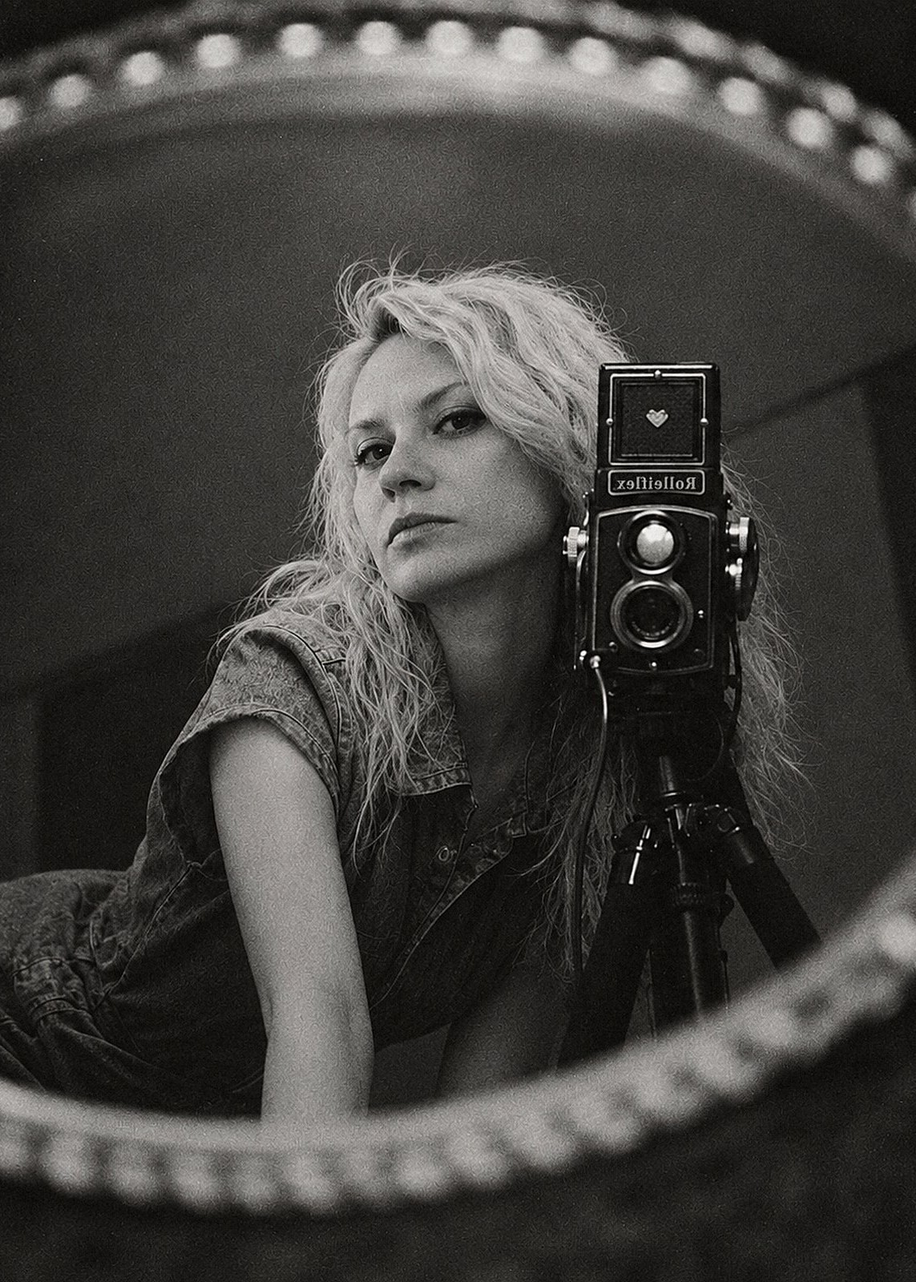
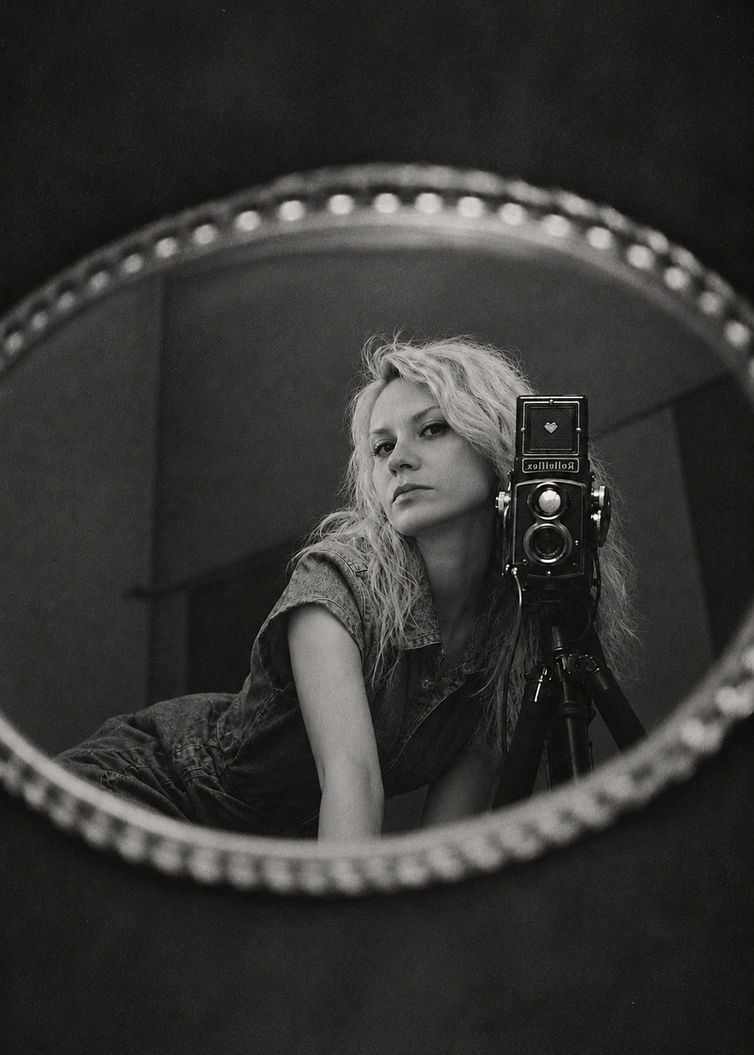
About: new photo version, 5x7

diff --git a/site/kz/index.html b/site/kz/index.html
@@ -42,7 +42,7 @@ var t=document.querySelector('meta[name="theme-color"]');if(t)t.content=p[1]}();
 <link rel="preconnect" href="https://fonts.googleapis.com">
 <link rel="preconnect" href="https://fonts.gstatic.com" crossorigin>
 <link href="https://fonts.googleapis.com/css2?family=Inter:wght@400;500;600;700;800&family=Unbounded:wght@900&display=swap" rel="stylesheet">
-<link rel="stylesheet" href="../assets/style.css?v=1794993606">
+<link rel="stylesheet" href="../assets/style.css?v=1794993721">
 </head>
 <body id="top" class="is-home">
 <header class="top">
@@ -61,9 +61,9 @@ var t=document.querySelector('meta[name="theme-color"]');if(t)t.content=p[1]}();
 
 <div class="home" id="home">
 <section class="stage">
-  <div class="splash"><picture class="tile"><source media="(max-width: 760px)" srcset="../photos/home/02.jpg?v=1794993606"><img src="../photos/home/01.jpg?v=1794993606" alt="Veronika Kim"></picture></div>
-  <h1 class="wordmark"><picture><source media="(max-width: 760px)" data-srcset="../assets/wordmark-v1.png?v=1794993606" width="678" height="1692"><img data-src="../assets/wordmark-1.png?v=1794993606" alt="Veronika Kim" width="1692" height="678"></picture><script>!function(p){var n=document.documentElement.getAttribute("data-logo")||1,s=p.firstChild,i=p.lastChild;s.srcset=s.getAttribute("data-srcset").replace("-v1.","-v"+n+".");i.src=i.getAttribute("data-src").replace("-1.","-"+n+".")}(document.currentScript.previousElementSibling)</script><noscript><img src="../assets/wordmark-1.png?v=1794993606" alt="Veronika Kim" width="1692" height="678"></noscript></h1>
-  <div class="drift"><div class="drift-item"><a class="stub"><img src="../photos/float/1.jpg?v=1794993606" width="800" height="1200" alt="Veronika Kim" decoding="async"></a></div><div class="drift-item"><a class="stub"><img src="../photos/float/2.jpg?v=1794993606" width="1200" height="800" alt="Veronika Kim" decoding="async"></a></div><div class="drift-item"><a class="stub"><img src="../photos/float/3.jpg?v=1794993606" width="857" height="1200" alt="Veronika Kim" decoding="async"></a></div><div class="drift-item"><a class="stub"><img src="../photos/float/4.jpg?v=1794993606" width="870" height="1200" alt="Veronika Kim" decoding="async"></a></div><div class="drift-item"><a class="stub"><img src="../photos/float/5.jpg?v=1794993606" width="1150" height="1200" alt="Veronika Kim" decoding="async"></a></div><div class="drift-item"><a class="stub"><img src="../photos/float/6.jpg?v=1794993606" width="800" height="1200" alt="Veronika Kim" decoding="async"></a></div><div class="drift-item"><a class="stub"><img src="../photos/float/7.jpg?v=1794993606" width="1200" height="866" alt="Veronika Kim" decoding="async"></a></div><div class="drift-item"><a class="stub"><img src="../photos/float/8.jpg?v=1794993606" width="1200" height="800" alt="Veronika Kim" decoding="async"></a></div></div>
+  <div class="splash"><picture class="tile"><source media="(max-width: 760px)" srcset="../photos/home/02.jpg?v=1794993721"><img src="../photos/home/01.jpg?v=1794993721" alt="Veronika Kim"></picture></div>
+  <h1 class="wordmark"><picture><source media="(max-width: 760px)" data-srcset="../assets/wordmark-v1.png?v=1794993721" width="678" height="1692"><img data-src="../assets/wordmark-1.png?v=1794993721" alt="Veronika Kim" width="1692" height="678"></picture><script>!function(p){var n=document.documentElement.getAttribute("data-logo")||1,s=p.firstChild,i=p.lastChild;s.srcset=s.getAttribute("data-srcset").replace("-v1.","-v"+n+".");i.src=i.getAttribute("data-src").replace("-1.","-"+n+".")}(document.currentScript.previousElementSibling)</script><noscript><img src="../assets/wordmark-1.png?v=1794993721" alt="Veronika Kim" width="1692" height="678"></noscript></h1>
+  <div class="drift"><div class="drift-item"><a class="stub"><img src="../photos/float/1.jpg?v=1794993721" width="800" height="1200" alt="Veronika Kim" decoding="async"></a></div><div class="drift-item"><a class="stub"><img src="../photos/float/2.jpg?v=1794993721" width="1200" height="800" alt="Veronika Kim" decoding="async"></a></div><div class="drift-item"><a class="stub"><img src="../photos/float/3.jpg?v=1794993721" width="857" height="1200" alt="Veronika Kim" decoding="async"></a></div><div class="drift-item"><a class="stub"><img src="../photos/float/4.jpg?v=1794993721" width="870" height="1200" alt="Veronika Kim" decoding="async"></a></div><div class="drift-item"><a class="stub"><img src="../photos/float/5.jpg?v=1794993721" width="1150" height="1200" alt="Veronika Kim" decoding="async"></a></div><div class="drift-item"><a class="stub"><img src="../photos/float/6.jpg?v=1794993721" width="800" height="1200" alt="Veronika Kim" decoding="async"></a></div><div class="drift-item"><a class="stub"><img src="../photos/float/7.jpg?v=1794993721" width="1200" height="866" alt="Veronika Kim" decoding="async"></a></div><div class="drift-item"><a class="stub"><img src="../photos/float/8.jpg?v=1794993721" width="1200" height="800" alt="Veronika Kim" decoding="async"></a></div></div>
 </section>
 <div class="home-content">
 <p class="statement">Маған мінсіз адамдар керек емес. <em>Маған тірі адамдар қызық.</em></p>
@@ -90,6 +90,6 @@ var t=document.querySelector('meta[name="theme-color"]');if(t)t.content=p[1]}();
   <div class="foot-bottom"><span>© 2026 Veronika Kim. Барлық құқықтар қорғалған</span><a href="#top">Жоғарыға</a></div>
 </footer>
 <div class="lb" role="dialog" aria-modal="true"><span class="c"></span><button class="x">Жабу</button><button class="p">← Артқа</button><img alt=""><button class="nx">Алға →</button></div>
-<script src="../assets/app.js?v=1794993606"></script>
+<script src="../assets/app.js?v=1794993721"></script>
 </body>
 </html>

diff --git a/site/en/index.html b/site/en/index.html
@@ -42,7 +42,7 @@ var t=document.querySelector('meta[name="theme-color"]');if(t)t.content=p[1]}();
 <link rel="preconnect" href="https://fonts.googleapis.com">
 <link rel="preconnect" href="https://fonts.gstatic.com" crossorigin>
 <link href="https://fonts.googleapis.com/css2?family=Inter:wght@400;500;600;700;800&family=Unbounded:wght@900&display=swap" rel="stylesheet">
-<link rel="stylesheet" href="../assets/style.css?v=1794993606">
+<link rel="stylesheet" href="../assets/style.css?v=1794993721">
 </head>
 <body id="top" class="is-home">
 <header class="top">
@@ -61,9 +61,9 @@ var t=document.querySelector('meta[name="theme-color"]');if(t)t.content=p[1]}();
 
 <div class="home" id="home">
 <section class="stage">
-  <div class="splash"><picture class="tile"><source media="(max-width: 760px)" srcset="../photos/home/02.jpg?v=1794993606"><img src="../photos/home/01.jpg?v=1794993606" alt="Veronika Kim"></picture></div>
-  <h1 class="wordmark"><picture><source media="(max-width: 760px)" data-srcset="../assets/wordmark-v1.png?v=1794993606" width="678" height="1692"><img data-src="../assets/wordmark-1.png?v=1794993606" alt="Veronika Kim" width="1692" height="678"></picture><script>!function(p){var n=document.documentElement.getAttribute("data-logo")||1,s=p.firstChild,i=p.lastChild;s.srcset=s.getAttribute("data-srcset").replace("-v1.","-v"+n+".");i.src=i.getAttribute("data-src").replace("-1.","-"+n+".")}(document.currentScript.previousElementSibling)</script><noscript><img src="../assets/wordmark-1.png?v=1794993606" alt="Veronika Kim" width="1692" height="678"></noscript></h1>
-  <div class="drift"><div class="drift-item"><a class="stub"><img src="../photos/float/1.jpg?v=1794993606" width="800" height="1200" alt="Veronika Kim" decoding="async"></a></div><div class="drift-item"><a class="stub"><img src="../photos/float/2.jpg?v=1794993606" width="1200" height="800" alt="Veronika Kim" decoding="async"></a></div><div class="drift-item"><a class="stub"><img src="../photos/float/3.jpg?v=1794993606" width="857" height="1200" alt="Veronika Kim" decoding="async"></a></div><div class="drift-item"><a class="stub"><img src="../photos/float/4.jpg?v=1794993606" width="870" height="1200" alt="Veronika Kim" decoding="async"></a></div><div class="drift-item"><a class="stub"><img src="../photos/float/5.jpg?v=1794993606" width="1150" height="1200" alt="Veronika Kim" decoding="async"></a></div><div class="drift-item"><a class="stub"><img src="../photos/float/6.jpg?v=1794993606" width="800" height="1200" alt="Veronika Kim" decoding="async"></a></div><div class="drift-item"><a class="stub"><img src="../photos/float/7.jpg?v=1794993606" width="1200" height="866" alt="Veronika Kim" decoding="async"></a></div><div class="drift-item"><a class="stub"><img src="../photos/float/8.jpg?v=1794993606" width="1200" height="800" alt="Veronika Kim" decoding="async"></a></div></div>
+  <div class="splash"><picture class="tile"><source media="(max-width: 760px)" srcset="../photos/home/02.jpg?v=1794993721"><img src="../photos/home/01.jpg?v=1794993721" alt="Veronika Kim"></picture></div>
+  <h1 class="wordmark"><picture><source media="(max-width: 760px)" data-srcset="../assets/wordmark-v1.png?v=1794993721" width="678" height="1692"><img data-src="../assets/wordmark-1.png?v=1794993721" alt="Veronika Kim" width="1692" height="678"></picture><script>!function(p){var n=document.documentElement.getAttribute("data-logo")||1,s=p.firstChild,i=p.lastChild;s.srcset=s.getAttribute("data-srcset").replace("-v1.","-v"+n+".");i.src=i.getAttribute("data-src").replace("-1.","-"+n+".")}(document.currentScript.previousElementSibling)</script><noscript><img src="../assets/wordmark-1.png?v=1794993721" alt="Veronika Kim" width="1692" height="678"></noscript></h1>
+  <div class="drift"><div class="drift-item"><a class="stub"><img src="../photos/float/1.jpg?v=1794993721" width="800" height="1200" alt="Veronika Kim" decoding="async"></a></div><div class="drift-item"><a class="stub"><img src="../photos/float/2.jpg?v=1794993721" width="1200" height="800" alt="Veronika Kim" decoding="async"></a></div><div class="drift-item"><a class="stub"><img src="../photos/float/3.jpg?v=1794993721" width="857" height="1200" alt="Veronika Kim" decoding="async"></a></div><div class="drift-item"><a class="stub"><img src="../photos/float/4.jpg?v=1794993721" width="870" height="1200" alt="Veronika Kim" decoding="async"></a></div><div class="drift-item"><a class="stub"><img src="../photos/float/5.jpg?v=1794993721" width="1150" height="1200" alt="Veronika Kim" decoding="async"></a></div><div class="drift-item"><a class="stub"><img src="../photos/float/6.jpg?v=1794993721" width="800" height="1200" alt="Veronika Kim" decoding="async"></a></div><div class="drift-item"><a class="stub"><img src="../photos/float/7.jpg?v=1794993721" width="1200" height="866" alt="Veronika Kim" decoding="async"></a></div><div class="drift-item"><a class="stub"><img src="../photos/float/8.jpg?v=1794993721" width="1200" height="800" alt="Veronika Kim" decoding="async"></a></div></div>
 </section>
 <div class="home-content">
 <p class="statement">I don't need perfect people. <em>I'm interested in real ones.</em></p>
@@ -90,6 +90,6 @@ var t=document.querySelector('meta[name="theme-color"]');if(t)t.content=p[1]}();
   <div class="foot-bottom"><span>© 2026 Veronika Kim. All rights reserved</span><a href="#top">Back to top</a></div>
 </footer>
 <div class="lb" role="dialog" aria-modal="true"><span class="c"></span><button class="x">Close</button><button class="p">← Prev</button><img alt=""><button class="nx">Next →</button></div>
-<script src="../assets/app.js?v=1794993606"></script>
+<script src="../assets/app.js?v=1794993721"></script>
 </body>
 </html>

diff --git a/site/index.html b/site/index.html
@@ -42,7 +42,7 @@ var t=document.querySelector('meta[name="theme-color"]');if(t)t.content=p[1]}();
 <link rel="preconnect" href="https://fonts.googleapis.com">
 <link rel="preconnect" href="https://fonts.gstatic.com" crossorigin>
 <link href="https://fonts.googleapis.com/css2?family=Inter:wght@400;500;600;700;800&family=Unbounded:wght@900&display=swap" rel="stylesheet">
-<link rel="stylesheet" href="assets/style.css?v=1794993606">
+<link rel="stylesheet" href="assets/style.css?v=1794993721">
 </head>
 <body id="top" class="is-home">
 <header class="top">
@@ -61,9 +61,9 @@ var t=document.querySelector('meta[name="theme-color"]');if(t)t.content=p[1]}();
 
 <div class="home" id="home">
 <section class="stage">
-  <div class="splash"><picture class="tile"><source media="(max-width: 760px)" srcset="photos/home/02.jpg?v=1794993606"><img src="photos/home/01.jpg?v=1794993606" alt="Veronika Kim"></picture></div>
-  <h1 class="wordmark"><picture><source media="(max-width: 760px)" data-srcset="assets/wordmark-v1.png?v=1794993606" width="678" height="1692"><img data-src="assets/wordmark-1.png?v=1794993606" alt="Veronika Kim" width="1692" height="678"></picture><script>!function(p){var n=document.documentElement.getAttribute("data-logo")||1,s=p.firstChild,i=p.lastChild;s.srcset=s.getAttribute("data-srcset").replace("-v1.","-v"+n+".");i.src=i.getAttribute("data-src").replace("-1.","-"+n+".")}(document.currentScript.previousElementSibling)</script><noscript><img src="assets/wordmark-1.png?v=1794993606" alt="Veronika Kim" width="1692" height="678"></noscript></h1>
-  <div class="drift"><div class="drift-item"><a class="stub"><img src="photos/float/1.jpg?v=1794993606" width="800" height="1200" alt="Veronika Kim" decoding="async"></a></div><div class="drift-item"><a class="stub"><img src="photos/float/2.jpg?v=1794993606" width="1200" height="800" alt="Veronika Kim" decoding="async"></a></div><div class="drift-item"><a class="stub"><img src="photos/float/3.jpg?v=1794993606" width="857" height="1200" alt="Veronika Kim" decoding="async"></a></div><div class="drift-item"><a class="stub"><img src="photos/float/4.jpg?v=1794993606" width="870" height="1200" alt="Veronika Kim" decoding="async"></a></div><div class="drift-item"><a class="stub"><img src="photos/float/5.jpg?v=1794993606" width="1150" height="1200" alt="Veronika Kim" decoding="async"></a></div><div class="drift-item"><a class="stub"><img src="photos/float/6.jpg?v=1794993606" width="800" height="1200" alt="Veronika Kim" decoding="async"></a></div><div class="drift-item"><a class="stub"><img src="photos/float/7.jpg?v=1794993606" width="1200" height="866" alt="Veronika Kim" decoding="async"></a></div><div class="drift-item"><a class="stub"><img src="photos/float/8.jpg?v=1794993606" width="1200" height="800" alt="Veronika Kim" decoding="async"></a></div></div>
+  <div class="splash"><picture class="tile"><source media="(max-width: 760px)" srcset="photos/home/02.jpg?v=1794993721"><img src="photos/home/01.jpg?v=1794993721" alt="Veronika Kim"></picture></div>
+  <h1 class="wordmark"><picture><source media="(max-width: 760px)" data-srcset="assets/wordmark-v1.png?v=1794993721" width="678" height="1692"><img data-src="assets/wordmark-1.png?v=1794993721" alt="Veronika Kim" width="1692" height="678"></picture><script>!function(p){var n=document.documentElement.getAttribute("data-logo")||1,s=p.firstChild,i=p.lastChild;s.srcset=s.getAttribute("data-srcset").replace("-v1.","-v"+n+".");i.src=i.getAttribute("data-src").replace("-1.","-"+n+".")}(document.currentScript.previousElementSibling)</script><noscript><img src="assets/wordmark-1.png?v=1794993721" alt="Veronika Kim" width="1692" height="678"></noscript></h1>
+  <div class="drift"><div class="drift-item"><a class="stub"><img src="photos/float/1.jpg?v=1794993721" width="800" height="1200" alt="Veronika Kim" decoding="async"></a></div><div class="drift-item"><a class="stub"><img src="photos/float/2.jpg?v=1794993721" width="1200" height="800" alt="Veronika Kim" decoding="async"></a></div><div class="drift-item"><a class="stub"><img src="photos/float/3.jpg?v=1794993721" width="857" height="1200" alt="Veronika Kim" decoding="async"></a></div><div class="drift-item"><a class="stub"><img src="photos/float/4.jpg?v=1794993721" width="870" height="1200" alt="Veronika Kim" decoding="async"></a></div><div class="drift-item"><a class="stub"><img src="photos/float/5.jpg?v=1794993721" width="1150" height="1200" alt="Veronika Kim" decoding="async"></a></div><div class="drift-item"><a class="stub"><img src="photos/float/6.jpg?v=1794993721" width="800" height="1200" alt="Veronika Kim" decoding="async"></a></div><div class="drift-item"><a class="stub"><img src="photos/float/7.jpg?v=1794993721" width="1200" height="866" alt="Veronika Kim" decoding="async"></a></div><div class="drift-item"><a class="stub"><img src="photos/float/8.jpg?v=1794993721" width="1200" height="800" alt="Veronika Kim" decoding="async"></a></div></div>
 </section>
 <div class="home-content">
 <p class="statement">Мне не нужны идеальные люди. <em>Мне интересны живые.</em></p>
@@ -90,6 +90,6 @@ var t=document.querySelector('meta[name="theme-color"]');if(t)t.content=p[1]}();
   <div class="foot-bottom"><span>© 2026 Veronika Kim. Все права защищены</span><a href="#top">Наверх</a></div>
 </footer>
 <div class="lb" role="dialog" aria-modal="true"><span class="c"></span><button class="x">Закрыть</button><button class="p">← Назад</button><img alt=""><button class="nx">Вперёд →</button></div>
-<script src="assets/app.js?v=1794993606"></script>
+<script src="assets/app.js?v=1794993721"></script>
 </body>
 </html>

diff --git a/site/kz/art/editorial/index.html b/site/kz/art/editorial/index.html
@@ -42,7 +42,7 @@ var t=document.querySelector('meta[name="theme-color"]');if(t)t.content=p[1]}();
 <link rel="preconnect" href="https://fonts.googleapis.com">
 <link rel="preconnect" href="https://fonts.gstatic.com" crossorigin>
 <link href="https://fonts.googleapis.com/css2?family=Inter:wght@400;500;600;700;800&family=Unbounded:wght@900&display=swap" rel="stylesheet">
-<link rel="stylesheet" href="../../../assets/style.css?v=1794993606">
+<link rel="stylesheet" href="../../../assets/style.css?v=1794993721">
 </head>
 <body id="top">
 <header class="top">
@@ -70,6 +70,6 @@ var t=document.querySelector('meta[name="theme-color"]');if(t)t.content=p[1]}();
   <div class="foot-bottom"><span>© 2026 Veronika Kim. Барлық құқықтар қорғалған</span><a href="#top">Жоғарыға</a></div>
 </footer>
 <div class="lb" role="dialog" aria-modal="true"><span class="c"></span><button class="x">Жабу</button><button class="p">← Артқа</button><img alt=""><button class="nx">Алға →</button></div>
-<script src="../../../assets/app.js?v=1794993606"></script>
+<script src="../../../assets/app.js?v=1794993721"></script>
 </body>
 </html>

diff --git a/site/kz/art/film-darkroom/index.html b/site/kz/art/film-darkroom/index.html
@@ -42,7 +42,7 @@ var t=document.querySelector('meta[name="theme-color"]');if(t)t.content=p[1]}();
 <link rel="preconnect" href="https://fonts.googleapis.com">
 <link rel="preconnect" href="https://fonts.gstatic.com" crossorigin>
 <link href="https://fonts.googleapis.com/css2?family=Inter:wght@400;500;600;700;800&family=Unbounded:wght@900&display=swap" rel="stylesheet">
-<link rel="stylesheet" href="../../../assets/style.css?v=1794993606">
+<link rel="stylesheet" href="../../../assets/style.css?v=1794993721">
 </head>
 <body id="top">
 <header class="top">
@@ -70,6 +70,6 @@ var t=document.querySelector('meta[name="theme-color"]');if(t)t.content=p[1]}();
   <div class="foot-bottom"><span>© 2026 Veronika Kim. Барлық құқықтар қорғалған</span><a href="#top">Жоғарыға</a></div>
 </footer>
 <div class="lb" role="dialog" aria-modal="true"><span class="c"></span><button class="x">Жабу</button><button class="p">← Артқа</button><img alt=""><button class="nx">Алға →</button></div>
-<script src="../../../assets/app.js?v=1794993606"></script>
+<script src="../../../assets/app.js?v=1794993721"></script>
 </body>
 </html>

diff --git a/site/kz/art/thirst-for-life/index.html b/site/kz/art/thirst-for-life/index.html
@@ -42,7 +42,7 @@ var t=document.querySelector('meta[name="theme-color"]');if(t)t.content=p[1]}();
 <link rel="preconnect" href="https://fonts.googleapis.com">
 <link rel="preconnect" href="https://fonts.gstatic.com" crossorigin>
 <link href="https://fonts.googleapis.com/css2?family=Inter:wght@400;500;600;700;800&family=Unbounded:wght@900&display=swap" rel="stylesheet">
-<link rel="stylesheet" href="../../../assets/style.css?v=1794993606">
+<link rel="stylesheet" href="../../../assets/style.css?v=1794993721">
 </head>
 <body id="top">
 <header class="top">
@@ -70,6 +70,6 @@ var t=document.querySelector('meta[name="theme-color"]');if(t)t.content=p[1]}();
   <div class="foot-bottom"><span>© 2026 Veronika Kim. Барлық құқықтар қорғалған</span><a href="#top">Жоғарыға</a></div>
 </footer>
 <div class="lb" role="dialog" aria-modal="true"><span class="c"></span><button class="x">Жабу</button><button class="p">← Артқа</button><img alt=""><button class="nx">Алға →</button></div>
-<script src="../../../assets/app.js?v=1794993606"></script>
+<script src="../../../assets/app.js?v=1794993721"></script>
 </body>
 </html>

diff --git a/site/kz/art/travel/index.html b/site/kz/art/travel/index.html
@@ -42,7 +42,7 @@ var t=document.querySelector('meta[name="theme-color"]');if(t)t.content=p[1]}();
 <link rel="preconnect" href="https://fonts.googleapis.com">
 <link rel="preconnect" href="https://fonts.gstatic.com" crossorigin>
 <link href="https://fonts.googleapis.com/css2?family=Inter:wght@400;500;600;700;800&family=Unbounded:wght@900&display=swap" rel="stylesheet">
-<link rel="stylesheet" href="../../../assets/style.css?v=1794993606">
+<link rel="stylesheet" href="../../../assets/style.css?v=1794993721">
 </head>
 <body id="top">
 <header class="top">
@@ -70,6 +70,6 @@ var t=document.querySelector('meta[name="theme-color"]');if(t)t.content=p[1]}();
   <div class="foot-bottom"><span>© 2026 Veronika Kim. Барлық құқықтар қорғалған</span><a href="#top">Жоғарыға</a></div>
 </footer>
 <div class="lb" role="dialog" aria-modal="true"><span class="c"></span><button class="x">Жабу</button><button class="p">← Артқа</button><img alt=""><button class="nx">Алға →</button></div>
-<script src="../../../assets/app.js?v=1794993606"></script>
+<script src="../../../assets/app.js?v=1794993721"></script>
 </body>
 </html>

diff --git a/site/kz/book/family/index.html b/site/kz/book/family/index.html
@@ -42,7 +42,7 @@ var t=document.querySelector('meta[name="theme-color"]');if(t)t.content=p[1]}();
 <link rel="preconnect" href="https://fonts.googleapis.com">
 <link rel="preconnect" href="https://fonts.gstatic.com" crossorigin>
 <link href="https://fonts.googleapis.com/css2?family=Inter:wght@400;500;600;700;800&family=Unbounded:wght@900&display=swap" rel="stylesheet">
-<link rel="stylesheet" href="../../../assets/style.css?v=1794993606">
+<link rel="stylesheet" href="../../../assets/style.css?v=1794993721">
 </head>
 <body id="top">
 <header class="top">
@@ -70,6 +70,6 @@ var t=document.querySelector('meta[name="theme-color"]');if(t)t.content=p[1]}();
   <div class="foot-bottom"><span>© 2026 Veronika Kim. Барлық құқықтар қорғалған</span><a href="#top">Жоғарыға</a></div>
 </footer>
 <div class="lb" role="dialog" aria-modal="true"><span class="c"></span><button class="x">Жабу</button><button class="p">← Артқа</button><img alt=""><button class="nx">Алға →</button></div>
-<script src="../../../assets/app.js?v=1794993606"></script>
+<script src="../../../assets/app.js?v=1794993721"></script>
 </body>
 </html>

diff --git a/site/kz/book/kids/index.html b/site/kz/book/kids/index.html
@@ -42,7 +42,7 @@ var t=document.querySelector('meta[name="theme-color"]');if(t)t.content=p[1]}();
 <link rel="preconnect" href="https://fonts.googleapis.com">
 <link rel="preconnect" href="https://fonts.gstatic.com" crossorigin>
 <link href="https://fonts.googleapis.com/css2?family=Inter:wght@400;500;600;700;800&family=Unbounded:wght@900&display=swap" rel="stylesheet">
-<link rel="stylesheet" href="../../../assets/style.css?v=1794993606">
+<link rel="stylesheet" href="../../../assets/style.css?v=1794993721">
 </head>
 <body id="top">
 <header class="top">
@@ -70,6 +70,6 @@ var t=document.querySelector('meta[name="theme-color"]');if(t)t.content=p[1]}();
   <div class="foot-bottom"><span>© 2026 Veronika Kim. Барлық құқықтар қорғалған</span><a href="#top">Жоғарыға</a></div>
 </footer>
 <div class="lb" role="dialog" aria-modal="true"><span class="c"></span><button class="x">Жабу</button><button class="p">← Артқа</button><img alt=""><button class="nx">Алға →</button></div>
-<script src="../../../assets/app.js?v=1794993606"></script>
+<script src="../../../assets/app.js?v=1794993721"></script>
 </body>
 </html>

diff --git a/site/kz/book/love-story/index.html b/site/kz/book/love-story/index.html
@@ -42,7 +42,7 @@ var t=document.querySelector('meta[name="theme-color"]');if(t)t.content=p[1]}();
 <link rel="preconnect" href="https://fonts.googleapis.com">
 <link rel="preconnect" href="https://fonts.gstatic.com" crossorigin>
 <link href="https://fonts.googleapis.com/css2?family=Inter:wght@400;500;600;700;800&family=Unbounded:wght@900&display=swap" rel="stylesheet">
-<link rel="stylesheet" href="../../../assets/style.css?v=1794993606">
+<link rel="stylesheet" href="../../../assets/style.css?v=1794993721">
 </head>
 <body id="top">
 <header class="top">
@@ -70,6 +70,6 @@ var t=document.querySelector('meta[name="theme-color"]');if(t)t.content=p[1]}();
   <div class="foot-bottom"><span>© 2026 Veronika Kim. Барлық құқықтар қорғалған</span><a href="#top">Жоғарыға</a></div>
 </footer>
 <div class="lb" role="dialog" aria-modal="true"><span class="c"></span><button class="x">Жабу</button><button class="p">← Артқа</button><img alt=""><button class="nx">Алға →</button></div>
-<script src="../../../assets/app.js?v=1794993606"></script>
+<script src="../../../assets/app.js?v=1794993721"></script>
 </body>
 </html>

diff --git a/site/kz/book/mountains/index.html b/site/kz/book/mountains/index.html
@@ -42,7 +42,7 @@ var t=document.querySelector('meta[name="theme-color"]');if(t)t.content=p[1]}();
 <link rel="preconnect" href="https://fonts.googleapis.com">
 <link rel="preconnect" href="https://fonts.gstatic.com" crossorigin>
 <link href="https://fonts.googleapis.com/css2?family=Inter:wght@400;500;600;700;800&family=Unbounded:wght@900&display=swap" rel="stylesheet">
-<link rel="stylesheet" href="../../../assets/style.css?v=1794993606">
+<link rel="stylesheet" href="../../../assets/style.css?v=1794993721">
 </head>
 <body id="top">
 <header class="top">
@@ -70,6 +70,6 @@ var t=document.querySelector('meta[name="theme-color"]');if(t)t.content=p[1]}();
   <div class="foot-bottom"><span>© 2026 Veronika Kim. Барлық құқықтар қорғалған</span><a href="#top">Жоғарыға</a></div>
 </footer>
 <div class="lb" role="dialog" aria-modal="true"><span class="c"></span><button class="x">Жабу</button><button class="p">← Артқа</button><img alt=""><button class="nx">Алға →</button></div>
-<script src="../../../assets/app.js?v=1794993606"></script>
+<script src="../../../assets/app.js?v=1794993721"></script>
 </body>
 </html>

diff --git a/site/kz/book/portrait/index.html b/site/kz/book/portrait/index.html
@@ -42,7 +42,7 @@ var t=document.querySelector('meta[name="theme-color"]');if(t)t.content=p[1]}();
 <link rel="preconnect" href="https://fonts.googleapis.com">
 <link rel="preconnect" href="https://fonts.gstatic.com" crossorigin>
 <link href="https://fonts.googleapis.com/css2?family=Inter:wght@400;500;600;700;800&family=Unbounded:wght@900&display=swap" rel="stylesheet">
-<link rel="stylesheet" href="../../../assets/style.css?v=1794993606">
+<link rel="stylesheet" href="../../../assets/style.css?v=1794993721">
 </head>
 <body id="top">
 <header class="top">
@@ -70,6 +70,6 @@ var t=document.querySelector('meta[name="theme-color"]');if(t)t.content=p[1]}();
   <div class="foot-bottom"><span>© 2026 Veronika Kim. Барлық құқықтар қорғалған</span><a href="#top">Жоғарыға</a></div>
 </footer>
 <div class="lb" role="dialog" aria-modal="true"><span class="c"></span><button class="x">Жабу</button><button class="p">← Артқа</button><img alt=""><button class="nx">Алға →</button></div>
-<script src="../../../assets/app.js?v=1794993606"></script>
+<script src="../../../assets/app.js?v=1794993721"></script>
 </body>
 </html>
